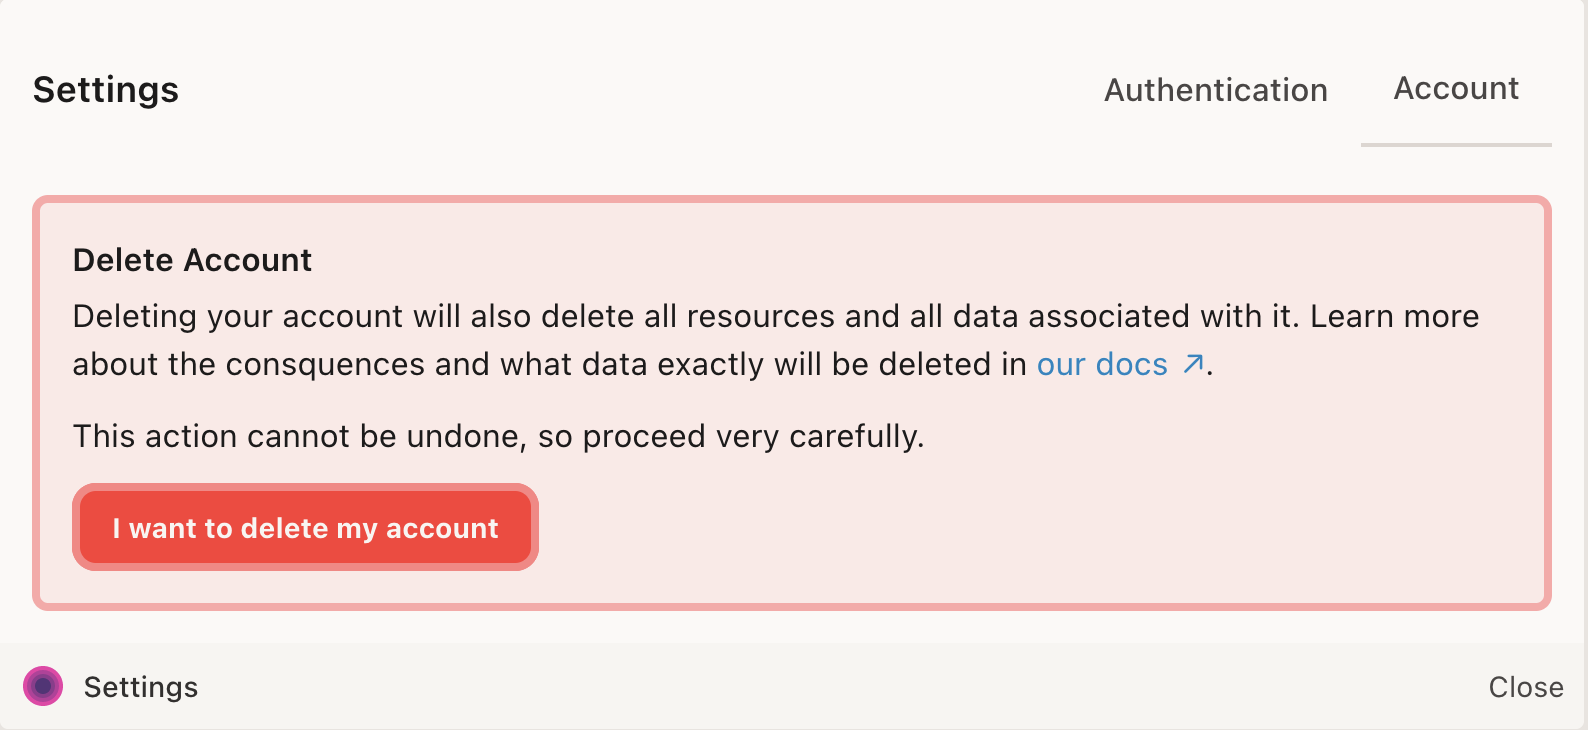
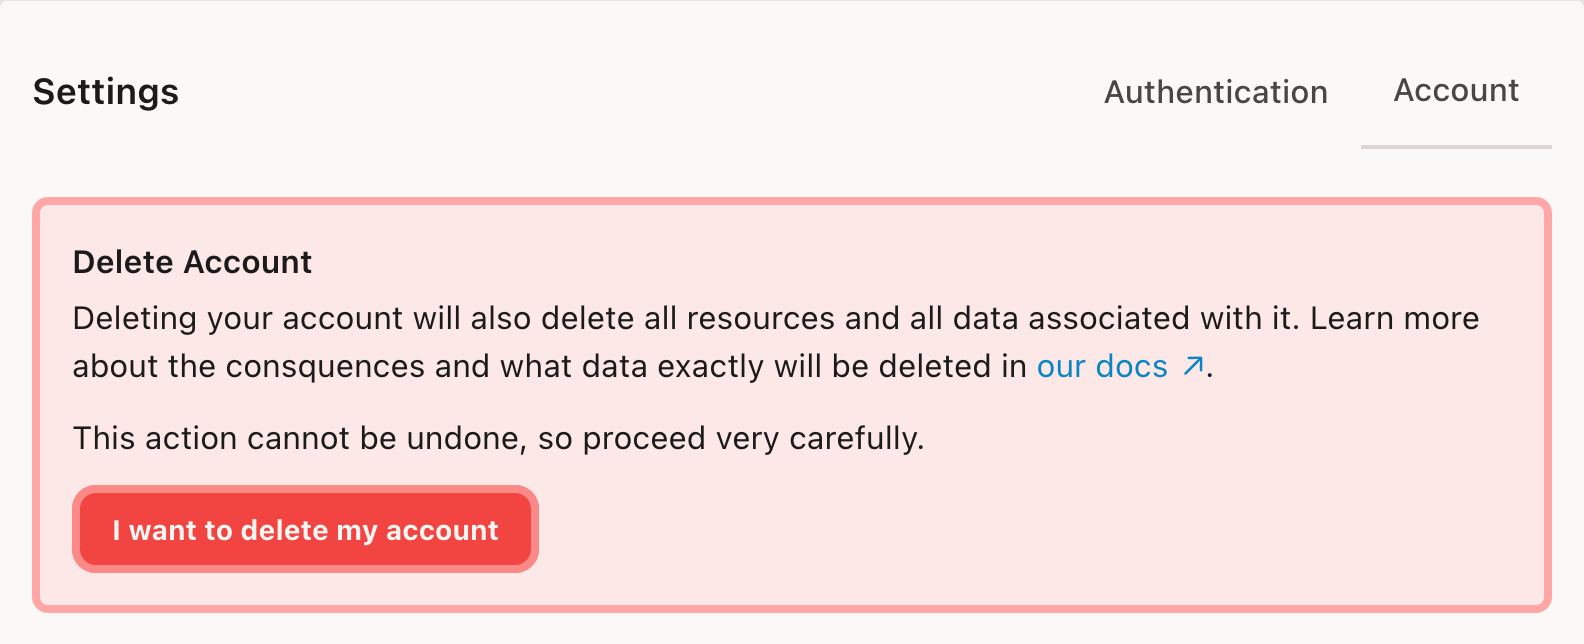
chore: update screenshot and copy for del account

diff --git a/src/content/docs/use/your-account.md b/src/content/docs/use/your-account.md
@@ -7,7 +7,7 @@ layout: "@layouts/DocsPageLayout.astro"
 
 You can submit a request to delete your account any time. We will delete your account and data within 30 days of receiving your request.
 
-In order to delete your account, login to your [Space Dashboard](https://deta.space), open the Teletype (command bar), click on **Settings** and navigate to the **Account* tab.
+In order to delete your account, login to your [Space Dashboard](https://deta.space), open the Teletype (command bar), click on **Settings** and navigate to the **Account** tab.
 
 Deleting your account will delete all your data, including your collections and installed apps. You will not be able to recover your data after deleting your account. 
 
@@ -20,8 +20,8 @@ If you are a developer and have published apps on Deta Space, [learn what happen
 If you have published an app on Deta Space that has been installed by anyone else other than yourself, _the app will continue to be available on Deta Space even after you delete your account_.
 This is to ensure that the app continues to be available to users who have installed it.
 
-If the app was a listed app on Discovery, it will be unlisted after you delete your account. For the existing app release page on discovery, we will add a note that the app is no longer maintained.
+If the app was a listed app on Discovery, it will be unlisted after you delete your account. For the existing app release page on Discovery, we will add a note that the app is no longer maintained.
 
-If no user has installed the app, the app will be also be deleted. 
+If no user has installed the app, the app will be also be deleted.
 
 
